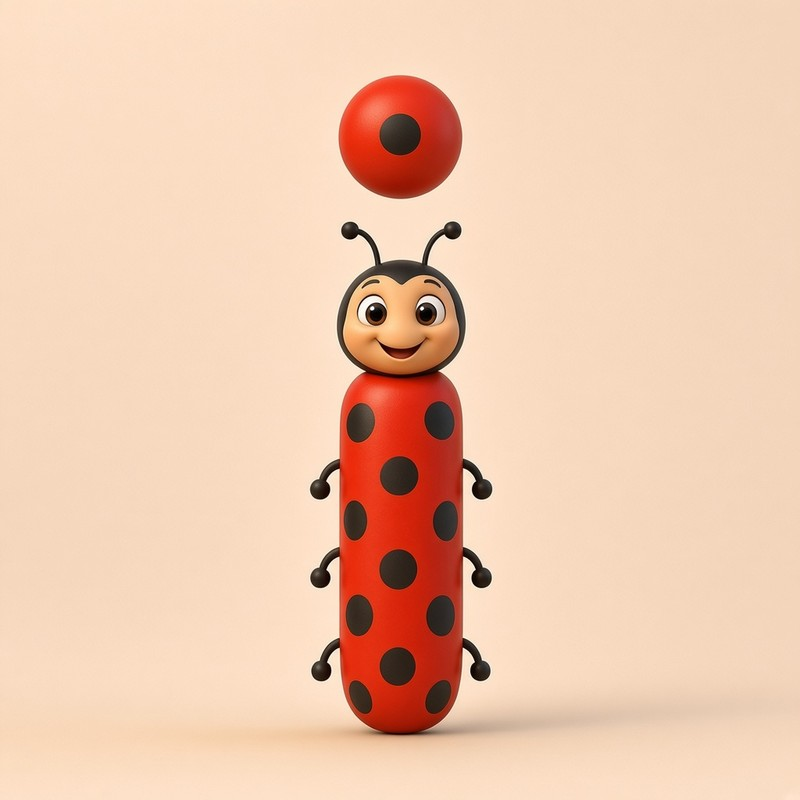
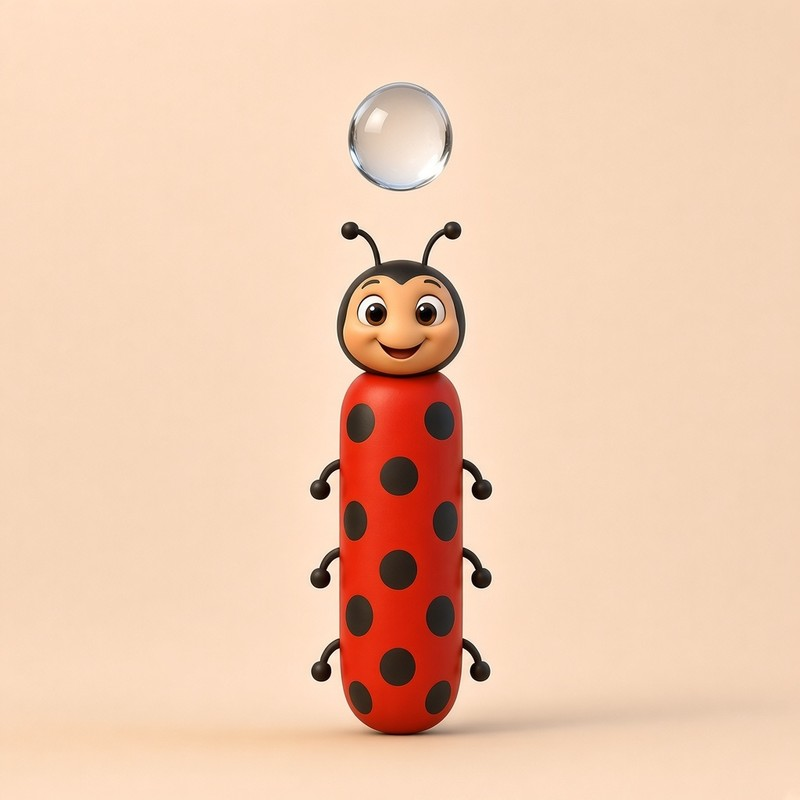
Make the insect dot a water droplet above the ladybug.
The ladybug, head included, stays the stick of the i. The droplet floats above it with cream in the gap. Cache is ir-20261123g.

Changed region(s): [[0.4062, 0.0938, 0.5938, 0.25], [0.5312, 0.3438, 0.5625, 0.375]]

diff --git a/sw.js b/sw.js
@@ -1,7 +1,7 @@
 /* Island Readers sample service worker.
    Code (HTML/JS/CSS/data) is network-first so a new version always wins; the cache is only an offline fallback.
    Media (images/audio/video) is cache-first. Install never fails because of one file. */
-const CACHE = 'ir-20261123f';
+const CACHE = 'ir-20261123g';
 const ASSETS = [
  "./",
  "./index.html",
